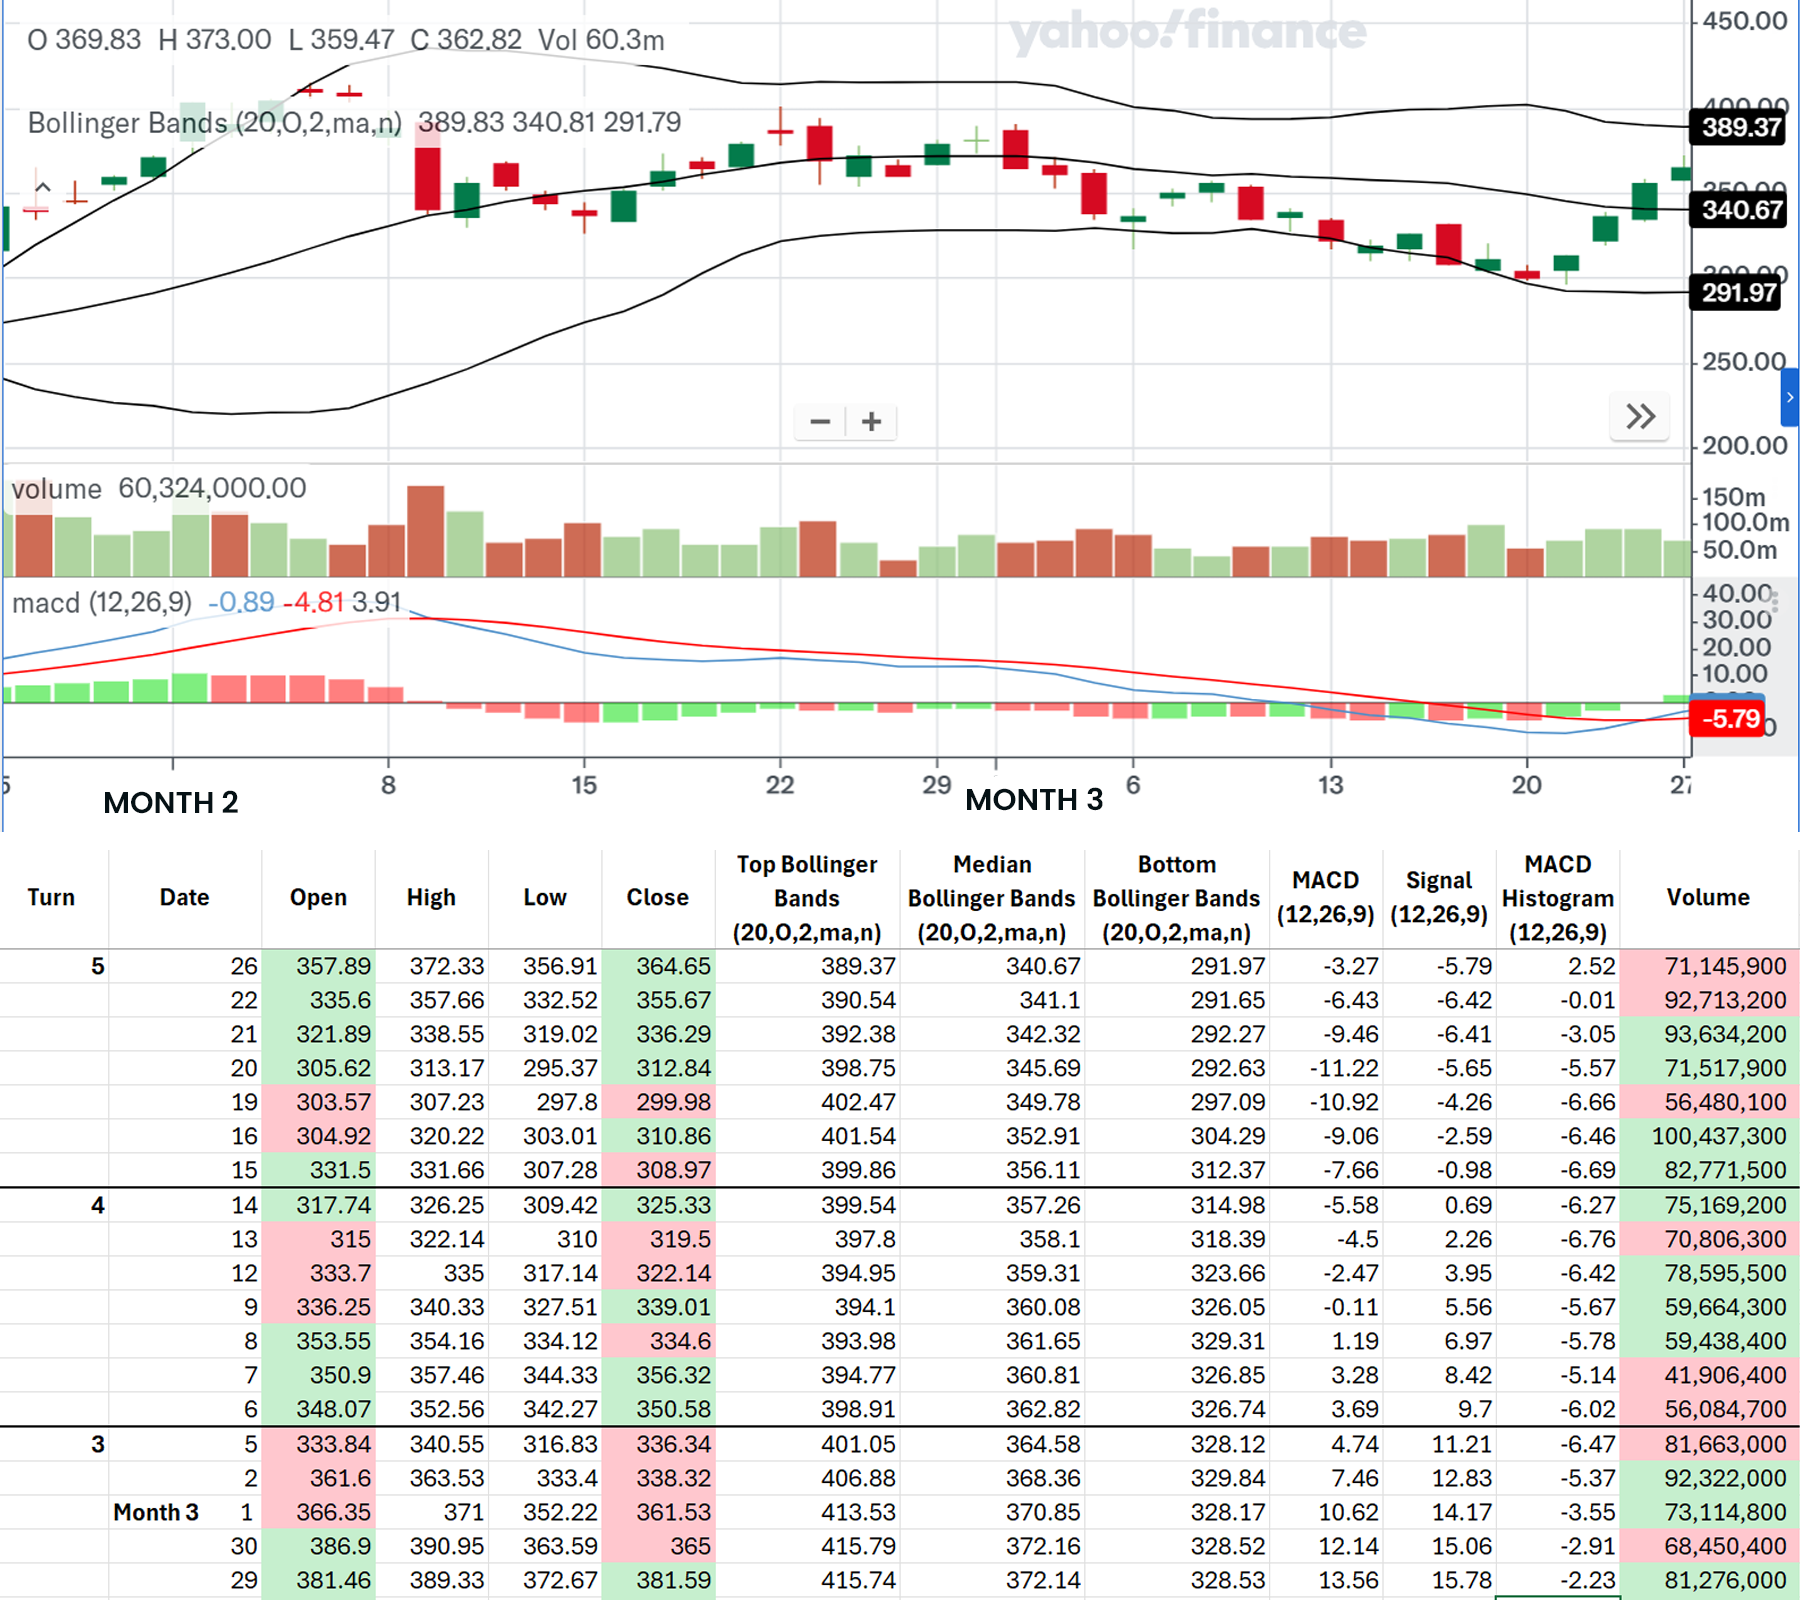
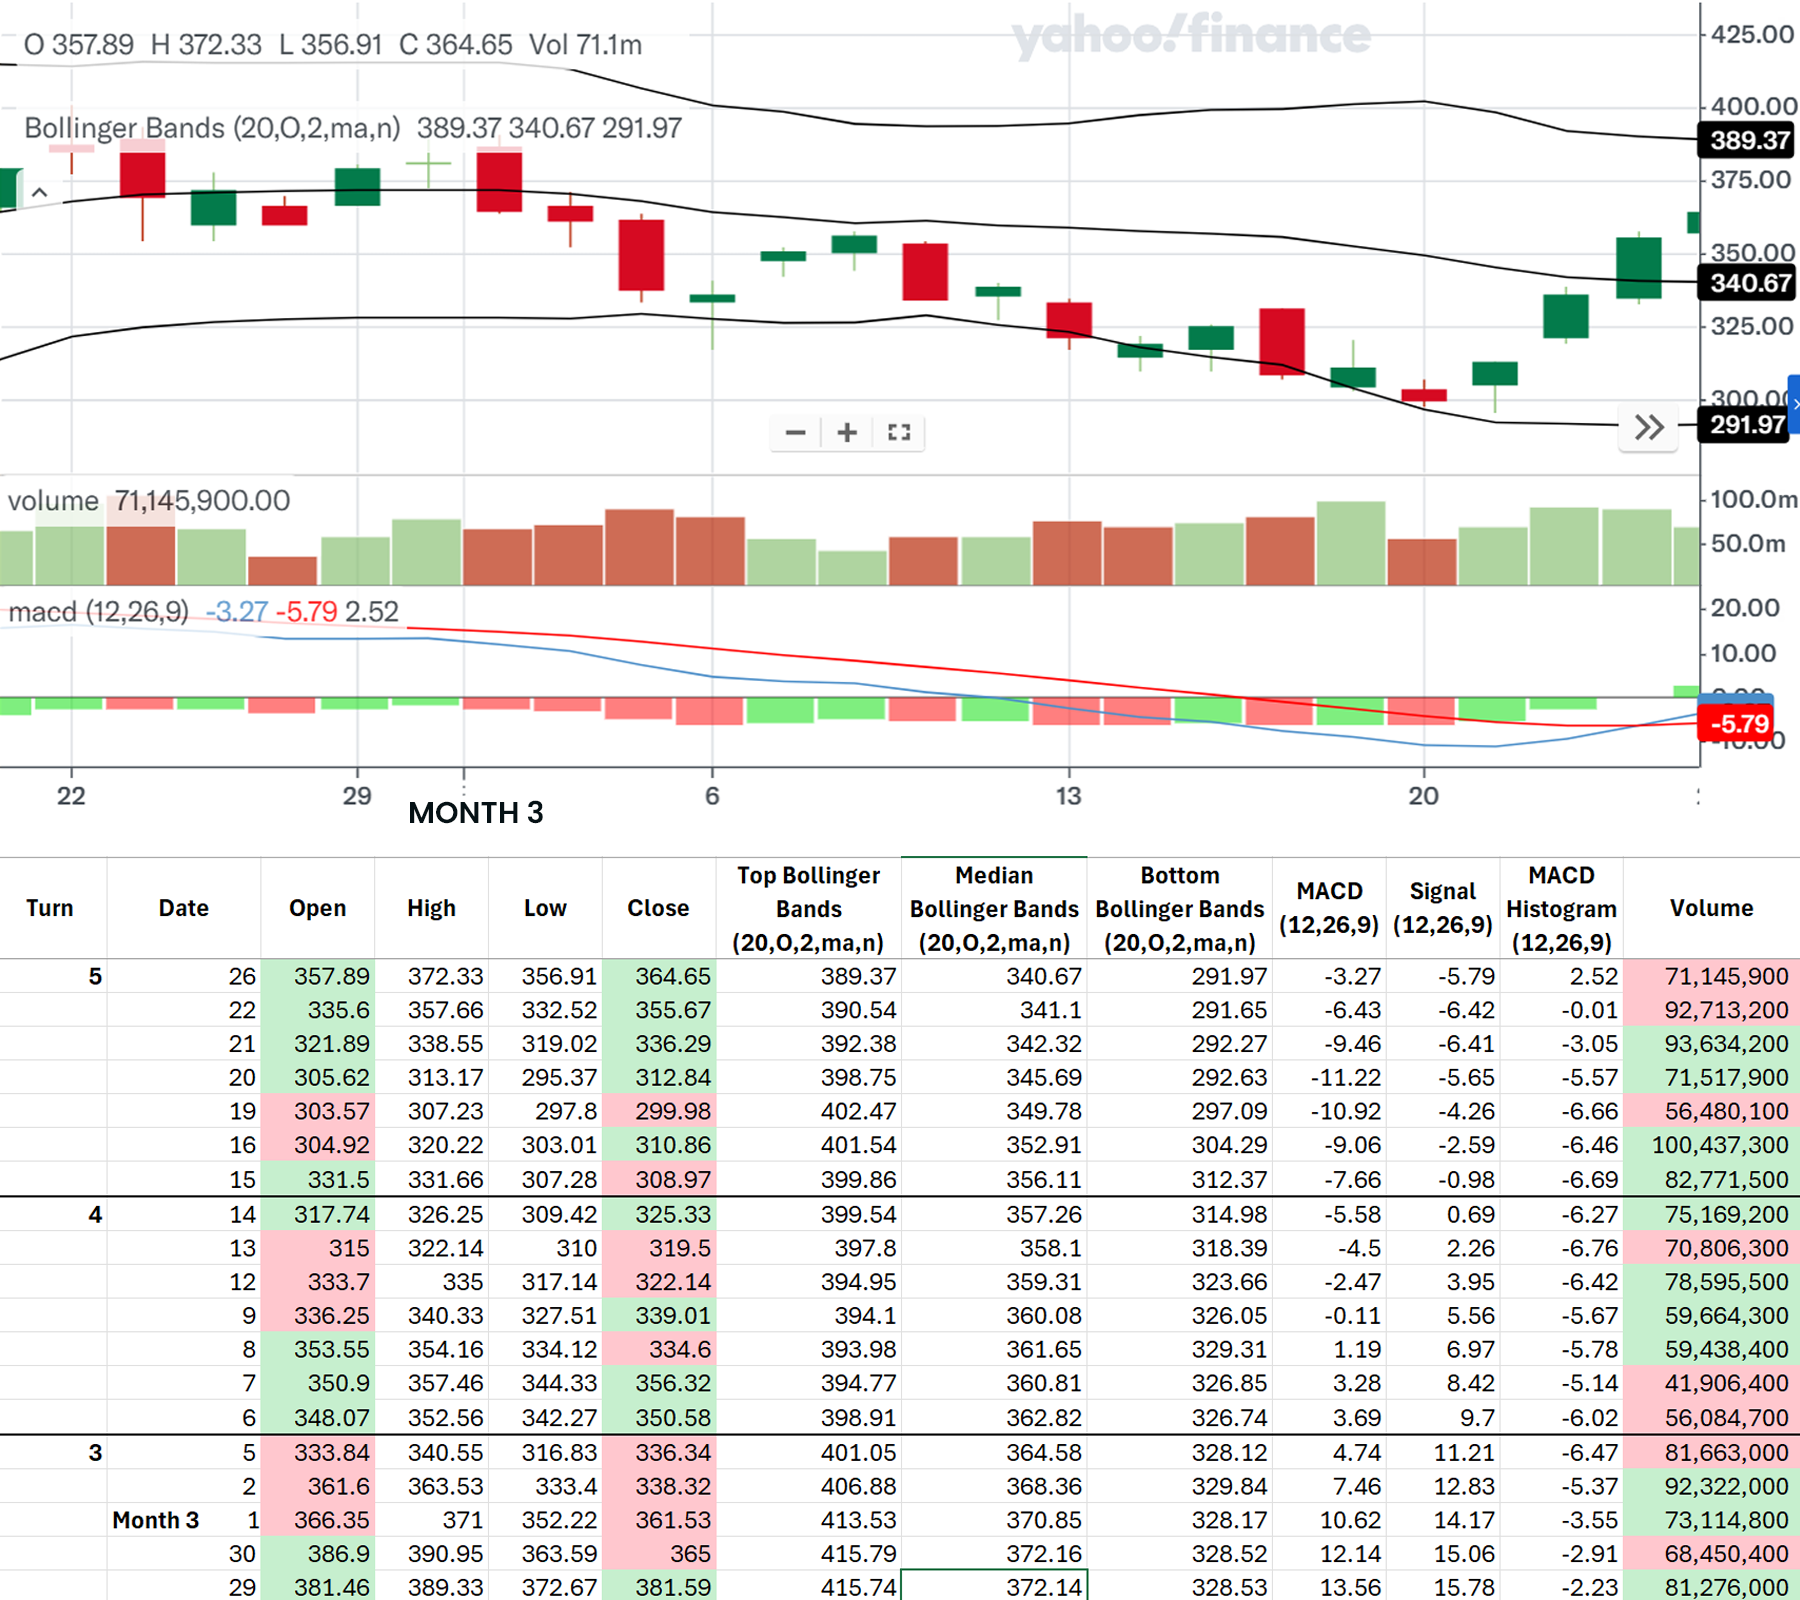
release 3.5.1 added 30 new user pass.

Changed region(s): [[0.0, 0.0, 1.0, 1.0], [0.4356, 0.25, 0.5289, 0.2812], [0.0, 0.5625, 0.0622, 0.625]]

diff --git a/templates/trade.html b/templates/trade.html
@@ -16,10 +16,20 @@
       }
       .left,
       .right {
-        width: 45%;
+        width: 46%;
+      }
+      h4 {
+        margin: 2px 0;
+        line-height: 2;
+      }
+      .total,
+      .headline,
+      .center p {
+        margin: 2px 0;
       }
       .headline {
-        font-size: 20px;
+        margin-top: 10px;
+        font-size: 22px;
         font-weight: bold;
       }
       .ticker button {
@@ -31,9 +41,7 @@
         font-weight: bold;
       }
       .total {
-        margin-top: 10px;
-        margin-bottom: 10px;
-        font-size: 18px;
+        font-size: 15px;
         font-weight: bold;
       }
       table {
@@ -49,7 +57,7 @@
         text-align: center;
       }
       th {
-        background-color: #f2f2f2;
+        background-color: rgb(238, 238, 238);
       }
       .center {
         text-align: center;
@@ -84,9 +92,9 @@
       </div>
       <div class="right">
         <div class="headline">
-          <h4 id="news-headline">
+          <h5 id="news-headline">
             {{ headline | replace("\n", "<br />") | safe }}
-          </h4>
+          </h5>
         </div>
         <div>
           <h4>Total Asset: $<span id="capital">{{ capital }}</span></h4>
@@ -104,7 +112,9 @@
           </button>
           {% endfor %}
         </div>
-        <div class="total">Total: $<span id="total-price">0.00</span></div>
+        <div class="total">
+          <h4>Total: $<span id="total-price">0.00</span></h4>
+        </div>
         <button onclick="trade('Buy')">Buy</button>
         <input
           type="number"

diff --git a/app.py b/app.py
@@ -30,12 +30,12 @@ class UserHoldings(db.Model):
     user = db.relationship('User', backref=db.backref('holdings', lazy=True))
 
 HEADLINES = [
-    "Elon Musk's $5 Billion Tesla Stock Sale Raises Eyebrows.\nExxonMobil Announces FID for Mega China Petchem Project.\n.\n.",
-    "Netflix Faces Surge in Phishing Attacks: Over 50% of Users were Targeted.\nP&G's Acquisition of Farmacy Beauty Strengthens Skincare Portfolio and Appeals to Younger Consumers.",
-    "ExxonMobil's $25 Billion Annual Investment Plan Through Next 5 years Sparks Investor Optimism Amid Rising Oil Prices.\nNetflix Dominates Streaming Market with Over 210 Million Subscribers, Outpacing Disney+ by More Than 100 Million.",
-    "Tesla Faked Original Full Self-Driving Video, Former Employees Allege.\nProcter & Gamble is unlikely to repeat its stellar performance of recent years, however, it is an excellent wealth preservation vehicle.",
-    "Hyundai Ioniq 5 Emerges as Strong Competitor, Posing Threat to Tesla's Market Share in EV Segment.\nNetflix Planning to change their No-Ad Strategy Amid Slowing Subscriber Growth, Analyst Warns.",
-]
+    "'Elon Musk's $5 Billion Tesla Stock Sale Raises Eyebrows.'\n\n\n'ExxonMobil Announces FID for Mega China Petchem Project.'\n\n\n",
+    "'Netflix Faces Surge in Phishing Attacks: Over 50% of Users were Targeted.'\n\n\n'P&G's Acquisition of Farmacy Beauty Strengthens Skincare Portfolio and Appeals to Younger Consumers.'\n\n",
+    "'ExxonMobil's $25 Billion Annual Investment Plan Through Next 5 years Sparks Investor Optimism Amid Rising Oil Prices.'\n\n'Netflix Dominates Streaming Market with Over 210 Million Subscribers, Outpacing Disney+ by More Than 100 Million.'\n\n",
+    "'Tesla Faked Original Full Self-Driving Video, Former Employees Allege.'\n\n\n'Procter & Gamble is unlikely to repeat its stellar performance of recent years, however, it is an excellent wealth preservation vehicle.'\n\n",
+    "'Hyundai Ioniq 5 Emerges as Strong Competitor, Posing Threat to Tesla's Market Share in EV Segment.'\n\n'Netflix Planning to change their No-Ad Strategy Amid Slowing Subscriber Growth, Analyst Warns.'\n\n",
+    ]
 
 # Game configuration: Fixed stock prices & hidden ROI percentages
 STOCK_PRICES = [
@@ -78,17 +78,51 @@ if not os.path.exists(LOG_FILE):
         writer = csv.writer(file)
         writer.writerow(["timestamp", "username", "turn", "action", "ticker", "quantity","capital_before", "capital_after",
             "cash_before", "cash_after",  # ✅ New cash tracking
-            "portfolio_before", "portfolio_after"  # ✅ New portfolio tracking
+            "portfolio_before", "portfolio_after", "Total_assets"  # ✅ New portfolio tracking
         ])
-        
+
 @app.cli.command("init-db")
 def init_db():
     with app.app_context():
         db.create_all()
-        if not User.query.first():
-            db.session.add(User(username="user1", password="password1"))
-            db.session.commit()
-    print("Database initialized.")
+        # Add multiple users with predefined usernames and passwords
+        users = [
+            {"username": "E5401", "password": "E5401"},
+            {"username": "E9302", "password": "E9302"},
+            {"username": "E5303", "password": "E5303"},
+            {"username": "E4204", "password": "E4204"},
+            {"username": "E9505", "password": "E9505"},
+            {"username": "E8006", "password": "E8006"},
+            {"username": "E4007", "password": "E4007"},
+            {"username": "E2308", "password": "E2308"},
+            {"username": "E3009", "password": "E3009"},
+            {"username": "E9610", "password": "E9610"},
+            {"username": "E2711", "password": "E2711"},
+            {"username": "E6612", "password": "E6612"},
+            {"username": "E7513", "password": "E7513"},
+            {"username": "E8914", "password": "E8914"},
+            {"username": "E6715", "password": "E6715"},
+            {"username": "N8201", "password": "N8201"},
+            {"username": "N7802", "password": "N7802"},
+            {"username": "N7903", "password": "N7903"},
+            {"username": "N1104", "password": "N1104"},
+            {"username": "N4905", "password": "N4905"},
+            {"username": "N4406", "password": "N4406"},
+            {"username": "N5107", "password": "N5107"},
+            {"username": "N1008", "password": "N1008"},
+            {"username": "N5809", "password": "N5809"},
+            {"username": "N2510", "password": "N2510"},
+            {"username": "N3111", "password": "N3111"},
+            {"username": "N3512", "password": "N3512"},
+            {"username": "N1913", "password": "N1913"},
+            {"username": "N9214", "password": "N9214"},
+            {"username": "N9715", "password": "N9715"}
+        ]
+        for user_data in users:
+            if not User.query.filter_by(username=user_data["username"]).first():
+                db.session.add(User(**user_data))
+        db.session.commit()
+        print("Database initialized with multiple users.")
 
 @app.route("/", methods=["GET", "POST"])
 def login():
@@ -112,8 +146,8 @@ def login():
         with open(LOG_FILE, "w", newline="") as file:
             writer = csv.writer(file)
             writer.writerow([
-                "timestamp", "username", "turn", "action", "ticker",
-                "quantity", "capital_before", "capital_after", "portfolio_value"
+                "timestamp", "username", "turn", "action", "ticker", "quantity","cash_before", "cash_after",  # ✅ New cash tracking
+                "stockportfolio_before", "stockportfolio_after", "Total_assets"  # ✅ New portfolio tracking
             ])
 
 
